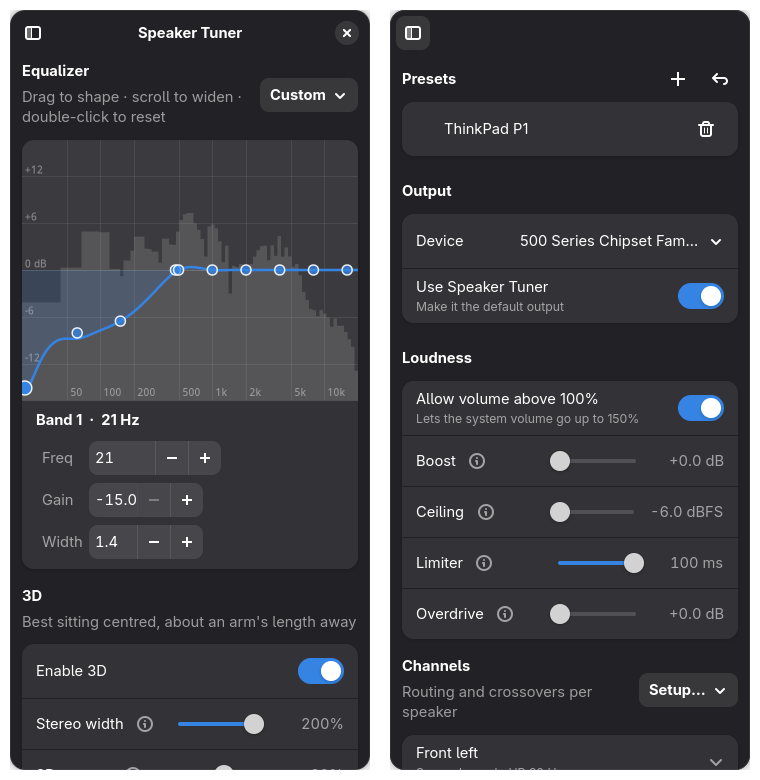
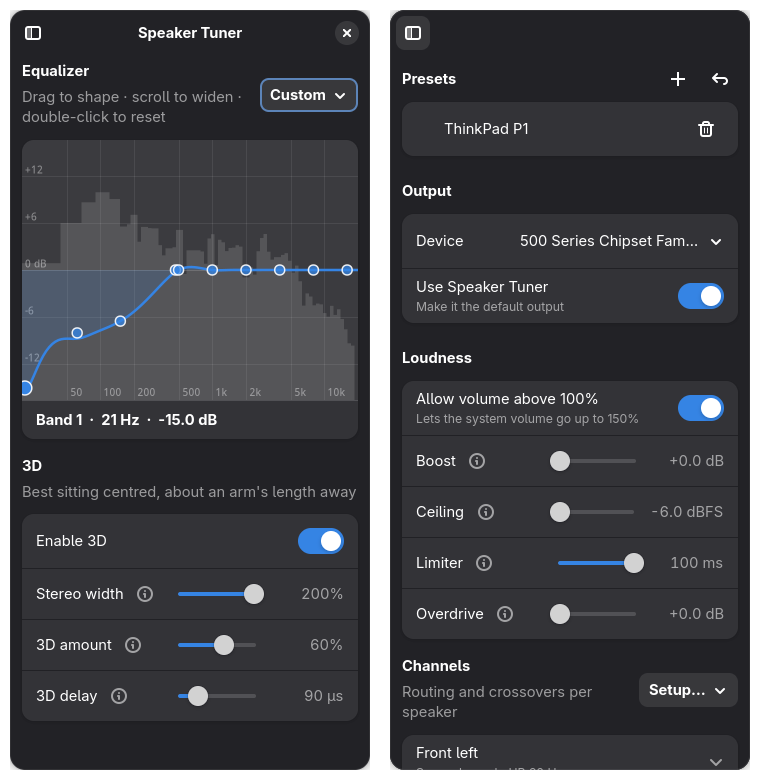
Hide fine EQ controls on phones; show band gain in the band line

diff --git a/speaker_tuner.py b/speaker_tuner.py
@@ -653,6 +653,10 @@ def fmt_hz(f):
     return f"{f / 1000:.1f} kHz" if f >= 1000 else f"{f:.0f} Hz"
 
 
+def band_text(i, b):
+    return f"Band {i + 1}  ·  {fmt_hz(b['f'])}  ·  {b['t']:+.1f} dB"
+
+
 def q_to_octaves(q):
     """Bandwidth in octaves of a peaking filter with this Q (RBJ definition)."""
     return 2 / math.log(2) * math.asinh(1 / (2 * q))
@@ -1026,9 +1030,7 @@ class Window(Adw.ApplicationWindow):
         phone.add_setter(self.split, "collapsed", True)
         phone.add_setter(self.sidebar_btn, "visible", True)
         phone.add_setter(self.sidebar_close, "visible", True)
-        phone.add_setter(band_row, "orientation", Gtk.Orientation.VERTICAL)
-        phone.add_setter(band_box, "orientation", Gtk.Orientation.VERTICAL)
-        phone.add_setter(band_box, "halign", Gtk.Align.START)
+        phone.add_setter(band_box, "visible", False)  # touch users drag the curve; no fine controls
         for side in ("margin-start", "margin-end"):
             phone.add_setter(self.main_box, side, 12)
             phone.add_setter(self.side_box, side, 12)
@@ -1328,7 +1330,7 @@ class Window(Adw.ApplicationWindow):
     def on_bands_changed(self, from_spin=False):
         solve_gains(self.s["bands"])
         b = self.s["bands"][self.eq.selected]
-        self.band_label.set_text(f"Band {self.eq.selected + 1}  ·  {fmt_hz(b['f'])}")
+        self.band_label.set_text(band_text(self.eq.selected, b))
         self.eq.invalidate()
         if not from_spin:
             was, self.building = self.building, True
@@ -1339,7 +1341,7 @@ class Window(Adw.ApplicationWindow):
 
     def on_band_selected(self, i):
         b = self.s["bands"][i]
-        self.band_label.set_text(f"Band {i + 1}  ·  {fmt_hz(b['f'])}")
+        self.band_label.set_text(band_text(i, b))
         was, self.building = self.building, True
         self.spin_f.set_value(b["f"])
         self.spin_g.set_value(b["t"])
